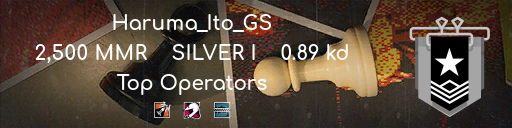
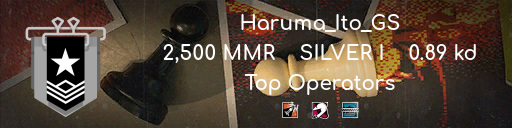
command 'side' init

Changed region(s): [[0.0312, 0.0938, 0.9688, 0.9062], [0.5312, 0.7812, 0.7188, 0.9375], [0.2812, 0.7812, 0.4688, 0.9375]]

diff --git a/modules/commands/bage.js b/modules/commands/bage.js
@@ -22,19 +22,13 @@ module.exports = {
                         .setName('add')
                         .setDescription('Добавляет фон в список')
                         .addStringOption(option =>
-        // УБРАТЬ НАЗВАНИЕ
-                            option
-                                .setName('название')
-                                .setDescription('Название для картинки, будет отображаться в списке')
-                                .setRequired(true))
-                        .addStringOption(option =>
                             option
                                 .setName('ссылка')
                                 .setDescription('Ссылка на картинку (png/jpg/gif)')
                                 .setRequired(true))
                 )
-        ),
-        /*.addSubcommandGroup(scg => 
+        )
+        .addSubcommandGroup(scg => 
             scg
                 .setName('set')
                 .setDescription('Описание')
@@ -45,7 +39,7 @@ module.exports = {
                         .addStringOption(option =>
                             option
                                 .setName('цвет')
-                                .setDescription('Цвет на английском')
+                                .setDescription('Цвет текста (на английском)')
                                 .setRequired(true)))
                 .addSubcommand(sc =>
                     sc
@@ -54,9 +48,20 @@ module.exports = {
                         .addStringOption(option =>
                             option
                                 .setName('цвет')
-                                .setDescription('Цвет на английском')
+                                .setDescription('Цвет обводки текста (на английском)')
                                 .setRequired(true)))
-        ),*/
+                .addSubcommand(sc =>
+                    sc
+                        .setName('side')
+                        .setDescription('С какой стороны расположить изображение ранга')
+                        .addStringOption(option =>
+                            option
+                                .setName('сторона')
+                                .setDescription('Цвет текста (на английском)')
+                                .setRequired(true)
+                                .addChoice('left', 'left')
+                                .addChoice('right', 'right')))
+        ),
 	async execute(interaction) {
         if (interaction.options.getSubcommandGroup() === "list")
         {
@@ -97,7 +102,7 @@ module.exports = {
                 await interaction.reply({content: `Фон ${name} успешно добавлен.`, ephemeral: true})
             }
         }
-        /*else if (interaction.options.getSubcommandGroup() === "set")
+        else if (interaction.options.getSubcommandGroup() === "set")
         {
             if (interaction.options.getSubcommand() === "color")
             {
@@ -126,6 +131,18 @@ module.exports = {
                 fs.writeFileSync('./config.json', JSON.stringify(config));
                 await interaction.reply({content: `Вы установили цвет рамки на ${color}.`, ephemeral: true})
             }
-        }*/
+            else if (interaction.options.getSubcommand() === "side")
+            {
+                let _side = interaction.options.getString('сторона')
+                let userId = interaction.user.id
+                for (let i in config.bagesSettings)
+                {
+                    if (config.bagesSettings[i].id === userId)
+                        config.bagesSettings[i].side = _side
+                }
+                fs.writeFileSync('./config.json', JSON.stringify(config));
+                await interaction.reply({content: `Вы изменили сторону изображения ранга на ${_side}.`, ephemeral: true})
+            }
+        }
 	},
 };

diff --git a/modules/funcs.js b/modules/funcs.js
@@ -117,6 +117,8 @@ async function makeCanvas(map)
             ctx = canvas.getContext('2d'),
             bg = await Canvas.loadImage(`./source/bages/available/${bgFile}` || `./source/bages/available/${defaultBg}`),
             rankImg = await Canvas.loadImage(`./source/ranks/${map.rank}.svg`),
+            rankPosition = config.bagesSettings[map.name].side,
+            rankImgSize = (rankPosition === "right") ? height : -height,
             name = map.name,
             statistic = `${map.mmr} MMR    ${map.rank}    ${map.kd} kd`,
             tOps = 'Top Operators',
@@ -127,22 +129,25 @@ async function makeCanvas(map)
 
         ctx.drawImage(bg, 0, 0, width, height)
         // Вставляем ранг
-        ctx.drawImage(rankImg, width - height, 0, height, height)
+        if (rankPosition == "right")
+            await ctx.drawImage(rankImg, width - rankImgSize, 0, rankImgSize, rankImgSize)
+        else if (rankPosition == "left")
+            await ctx.drawImage(rankImg, 0, 0, -rankImgSize, -rankImgSize)
         // Настройка текста
         ctx.font = '20px Comfortaa-Bold'
         ctx.fillStyle = config.bagesSettings[name].color || config.bagesSettings.default.color
         // Обводка текста
         ctx.strokeStyle = config.bagesSettings[name].border || config.bagesSettings.default.border
-        ctx.strokeText(name, (width - height ) / 2 - ctx.measureText(name).width / 2, 30)
-        ctx.strokeText(statistic, (width - height) / 2 - ctx.measureText(statistic).width / 2, 60)
-        ctx.strokeText(tOps, (width - height) / 2 - ctx.measureText(tOps).width / 2, 90)
+        ctx.strokeText(name, (width - rankImgSize ) / 2 - ctx.measureText(name).width / 2, 30)
+        ctx.strokeText(statistic, (width - rankImgSize) / 2 - ctx.measureText(statistic).width / 2, 60)
+        ctx.strokeText(tOps, (width - rankImgSize) / 2 - ctx.measureText(tOps).width / 2, 90)
         // Сам текст
-        ctx.fillText(name, (width - height) / 2 - ctx.measureText(name).width / 2, 30)
-        ctx.fillText(statistic, (width - height) / 2 - ctx.measureText(statistic).width / 2, 60)
-        ctx.fillText(tOps, (width - height) / 2 - ctx.measureText(tOps).width / 2, 90)
-        ctx.drawImage(firstOp, (width - height) / 2 - opIconsSize / 2 - 10 - opIconsSize, 100, opIconsSize, opIconsSize)
-        ctx.drawImage(secondOp, (width - height) / 2 - opIconsSize / 2, 100, opIconsSize, opIconsSize)
-        ctx.drawImage(thirdOp, (width - height) / 2 + opIconsSize / 2 + 10, 100, opIconsSize, opIconsSize)
+        ctx.fillText(name, (width - rankImgSize) / 2 - ctx.measureText(name).width / 2, 30)
+        ctx.fillText(statistic, (width - rankImgSize) / 2 - ctx.measureText(statistic).width / 2, 60)
+        ctx.fillText(tOps, (width - rankImgSize) / 2 - ctx.measureText(tOps).width / 2, 90)
+        ctx.drawImage(firstOp, (width - rankImgSize) / 2 - opIconsSize / 2 - 10 - opIconsSize, 100, opIconsSize, opIconsSize)
+        ctx.drawImage(secondOp, (width - rankImgSize) / 2 - opIconsSize / 2, 100, opIconsSize, opIconsSize)
+        ctx.drawImage(thirdOp, (width - rankImgSize) / 2 + opIconsSize / 2 + 10, 100, opIconsSize, opIconsSize)
 
         // Аватарку можно вставить
         await fs.writeFileSync(`./source/bages/current/${map.name}${bgType}`, canvas.toBuffer())

diff --git a/modules/createBage.js b/modules/createBage.js
@@ -33,6 +33,8 @@ function makeNSaveNewGif(map)
 				canvas = Canvas.createCanvas(width, height),
 				ctx = canvas.getContext('2d'),
 				encoder = new GIFEncoder(width, height),
+				rankPosition = config.bagesSettings[map.name].side,
+            	rankImgSize = (rankPosition === "right") ? height : -height,
 				name = map.name,
 				statistic = `${map.mmr} MMR    ${map.rank}    ${map.kd} kd`,
 				rankImg = await Canvas.loadImage(`./source/ranks/${map.rank}.svg`) || await Canvas.loadImage(`./source/ranks/No Rank.svg`),
@@ -56,19 +58,22 @@ function makeNSaveNewGif(map)
 				const image = await Canvas.loadImage(`./source/bages/current/temp/${i}`)
 				console.log(image)
 				ctx.drawImage(image,0, 0, width, height)
-				ctx.drawImage(rankImg, width - height, 0, height, height)
+				if (rankPosition == "right")
+		            await ctx.drawImage(rankImg, width - rankImgSize, 0, rankImgSize, rankImgSize)
+		        else if (rankPosition == "left")
+		            await ctx.drawImage(rankImg, 0, 0, -rankImgSize, -rankImgSize)
 				// Обводка текста
         		ctx.strokeStyle = config.bagesSettings[name].border || config.bagesSettings.default.border
-        		ctx.strokeText(name, (width - height ) / 2 - ctx.measureText(name).width / 2, 30)
-        		ctx.strokeText(statistic, (width - height) / 2 - ctx.measureText(statistic).width / 2, 60)
-				ctx.strokeText(tOps, (width - height) / 2 - ctx.measureText(tOps).width / 2, 90)
+        		ctx.strokeText(name, (width - rankImgSize ) / 2 - ctx.measureText(name).width / 2, 30)
+        		ctx.strokeText(statistic, (width - rankImgSize) / 2 - ctx.measureText(statistic).width / 2, 60)
+				ctx.strokeText(tOps, (width - rankImgSize) / 2 - ctx.measureText(tOps).width / 2, 90)
         		// Сам текст
-				ctx.fillText(name, (width - height) / 2 - ctx.measureText(name).width / 2, 30)
-				ctx.fillText(statistic, (width - height) / 2 - ctx.measureText(statistic).width / 2, 60)
-				ctx.fillText(tOps, (width - height) / 2 - ctx.measureText(tOps).width / 2, 90)
-				ctx.drawImage(firstOp, (width - height) / 2 - opIconsSize / 2 - 10 - opIconsSize, 100, opIconsSize, opIconsSize)
-				ctx.drawImage(secondOp, (width - height) / 2 - opIconsSize / 2, 100, opIconsSize, opIconsSize)
-				ctx.drawImage(thirdOp, (width - height) / 2 + opIconsSize / 2 + 10, 100, opIconsSize, opIconsSize)
+				ctx.fillText(name, (width - rankImgSize) / 2 - ctx.measureText(name).width / 2, 30)
+				ctx.fillText(statistic, (width - rankImgSize) / 2 - ctx.measureText(statistic).width / 2, 60)
+				ctx.fillText(tOps, (width - rankImgSize) / 2 - ctx.measureText(tOps).width / 2, 90)
+				ctx.drawImage(firstOp, (width - rankImgSize) / 2 - opIconsSize / 2 - 10 - opIconsSize, 100, opIconsSize, opIconsSize)
+				ctx.drawImage(secondOp, (width - rankImgSize) / 2 - opIconsSize / 2, 100, opIconsSize, opIconsSize)
+				ctx.drawImage(thirdOp, (width - rankImgSize) / 2 + opIconsSize / 2 + 10, 100, opIconsSize, opIconsSize)
 				encoder.addFrame(ctx)
 			}
 			encoder.finish()

diff --git a/index.js b/index.js
@@ -9,9 +9,9 @@ client.on('ready', () => {
 	console.log('ready!')
 	console.log(client.commands.map(cmd => cmd.data.name))
 
-	let updateStatus = setInterval(function() {
+	updateStatus = setInterval(function() {
 		funcs.statusInterval(client)
-	}, 1000 * 60 * 5)
+	}, 1000 * 30)
 })
 
 client.on('interactionCreate', async interaction => {
@@ -29,21 +29,8 @@ client.on('interactionCreate', async interaction => {
 
 client.on('messageCreate', async msg => {
 	console.log(msg.content)
-	if (msg.content === "heroku") {
-		require('./modules/nodeHtmlToImage.js')(msg)
-	}
-	else if (msg.content === "canvas") {
-		// let ops = require('./modules/canvas.js')
-		// await ops.getFrames()
-		// let buffer = await ops.makeGif()
-		require('./modules/canvas.js')(msg)
-	}
-	else if (msg.content === "an")
-	{
-		require('./modules/bages.js')(msg)
-		// require('./modules/bagesHandler.js')()
-		// await msg.reply('Я тебя не понял')
-	}
+	if (msg.content === 'timer')
+		await msg.reply('Чего?')
 })
 
 client.login(process.env.discordToken || require('./local.json').discordToken)
